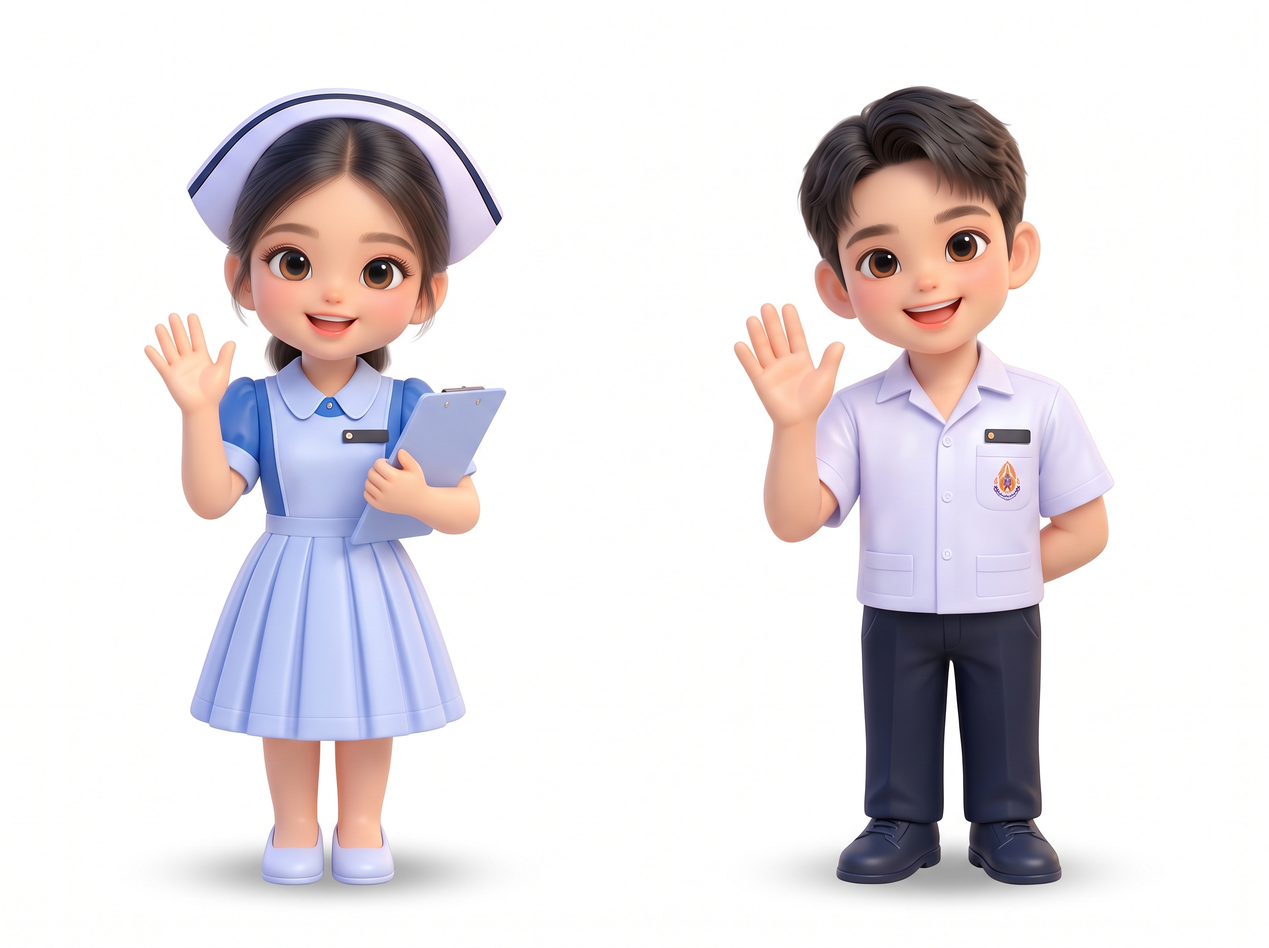
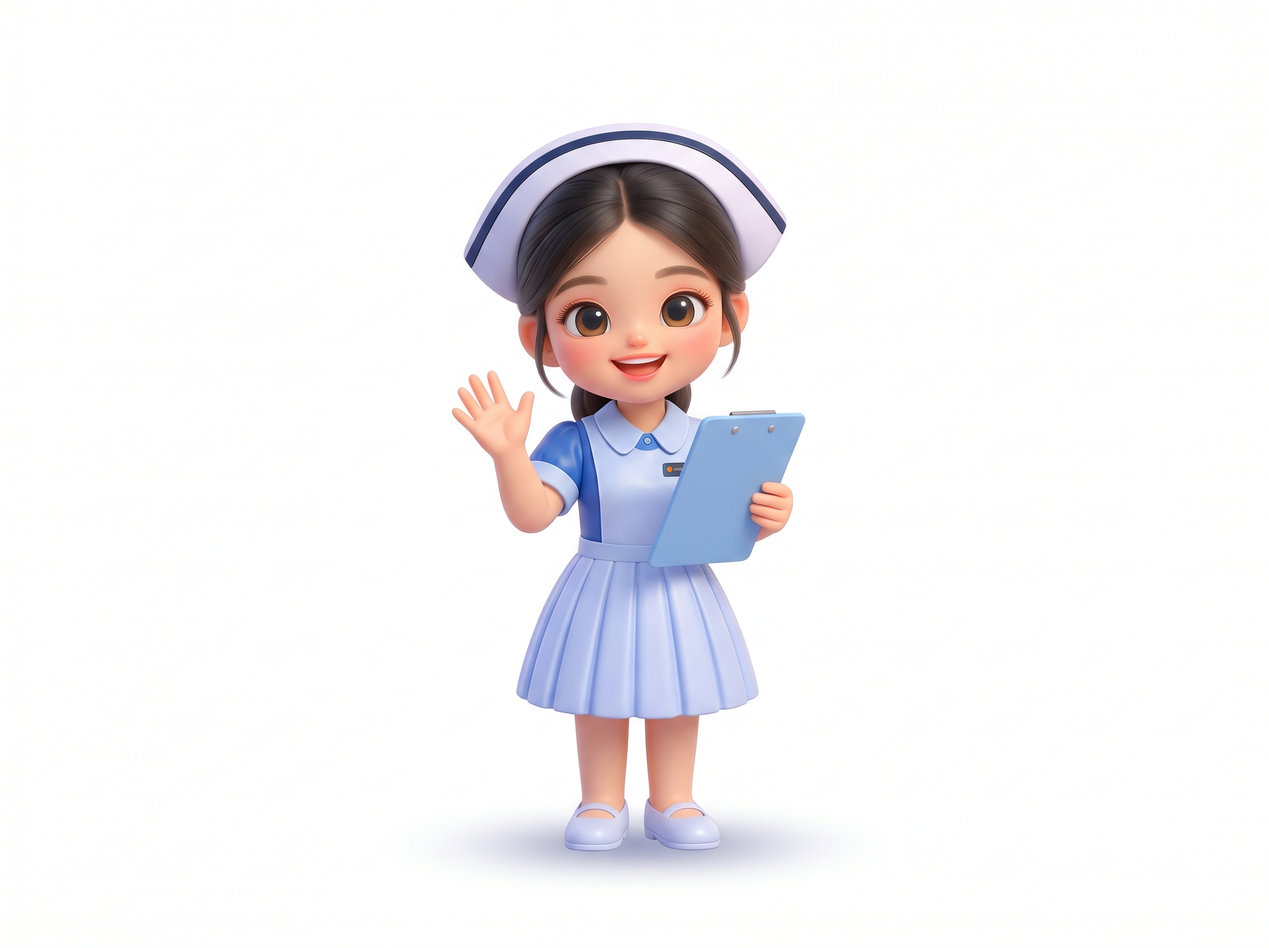
Add files via upload

diff --git a/practicum.html b/practicum.html
@@ -665,9 +665,42 @@
     function getStudentAvatarSrc(s) {
       const name = (s.fullName || s.name || "").trim();
       const isMale = name.startsWith("นาย") || s.gender === "male";
-      const defaultImg = isMale ? "avatars/nurse-male.png" : "avatars/nurse-female.png";
+      
+      // ลำดับไฟล์ผู้ชาย / ผู้หญิง ที่อาจมีในระบบ
+      const maleCandidates = [
+        "avatars/nurse_boy.png",
+        "avatars/nurse_boy.png.jpg",
+        "nurse_boy.png",
+        "nurse_boy.png.jpg",
+        "avatars/nurse-male.png",
+        "nurse-male.png"
+      ];
+      const femaleCandidates = [
+        "avatars/nurse_girl.png",
+        "avatars/nurse_girl.png.jpg",
+        "nurse_girl.png",
+        "nurse_girl.png.jpg",
+        "avatars/nurse-female.png",
+        "nurse-female.png"
+      ];
+
+      const candidates = isMale ? maleCandidates : femaleCandidates;
+      const defaultImg = candidates[0];
+      const fallbackList = candidates.slice(1);
       const customImg = `avatars/${s.studentId.toLowerCase()}.jpg`;
-      return { customImg, defaultImg, isMale };
+      return { customImg, defaultImg, fallbackList, isMale };
+    }
+
+    // ฟังก์ชันช่วยโหลดรูปภาพแบบลองค้นหาตามลำดับอัตโนมัติ (Fallback Chain)
+    function handleAvatarImgError(imgEl, fallbackList) {
+      if (!imgEl._fbIdx) imgEl._fbIdx = 0;
+      if (fallbackList && imgEl._fbIdx < fallbackList.length) {
+        const nextSrc = fallbackList[imgEl._fbIdx++];
+        imgEl.src = nextSrc;
+      } else {
+        imgEl.onerror = null;
+        imgEl.src = 'https://api.dicebear.com/7.x/bottts-neutral/svg?seed=' + encodeURIComponent(imgEl.alt || 'student');
+      }
     }
 
     // 2. เรนเดอร์การ์ดอวาตาร์ 3D Pixar พร้อมระบบหันหน้าตามเมาส์ (Mouse Face Tracking)
@@ -675,6 +708,7 @@
       const grid = document.getElementById('avatarGrid');
       grid.innerHTML = GROUP_5_DATA.map((s, idx) => {
         const av = getStudentAvatarSrc(s);
+        const fbJson = JSON.stringify(av.fallbackList).replace(/"/g, '&quot;');
         return `
           <div class="clay-card tilt-card p-4 flex flex-col items-center justify-between text-center relative group min-h-[220px]" 
                onmousemove="handleTilt(event, this, '${s.studentId}')" 
@@ -692,14 +726,14 @@
               </span>
             </div>
 
-            <!-- อวาตาร์ 3D ทรงกลมลอยตัว หันตามเมาส์ -->
-            <div class="tilt-card-inner w-20 h-20 sm:w-24 sm:h-24 rounded-full bg-gradient-to-tr ${s.color} p-1 shadow-lg flex items-center justify-center my-1 group-hover:scale-110 transition-transform duration-300">
-              <div class="w-full h-full bg-white rounded-full overflow-hidden flex items-center justify-center border-2 border-white shadow-inner pointer-events-none">
+            <!-- อวาตาร์ 3D ทรงกลมลอยตัว หันตามเมาส์ (Face/Eye Tracking) -->
+            <div class="tilt-card-inner w-22 h-22 sm:w-26 sm:h-26 rounded-full bg-gradient-to-tr ${s.color} p-1 shadow-lg flex items-center justify-center my-1 group-hover:scale-110 transition-transform duration-300">
+              <div class="w-full h-full bg-white rounded-full overflow-hidden flex items-center justify-center border-2 border-white shadow-inner pointer-events-none relative">
                 <img id="avatarImg_${s.studentId}"
-                     src="${av.customImg}" 
-                     onerror="this.onerror=null; this.src='${av.defaultImg}';" 
+                     src="${av.defaultImg}" 
+                     onerror="handleAvatarImgError(this, ${fbJson})" 
                      alt="${s.name}" 
-                     class="w-full h-full object-cover transition-transform duration-100 ease-out">
+                     class="w-full h-full object-contain pointer-events-none transition-transform duration-75 ease-out select-none">
               </div>
             </div>
 
@@ -735,30 +769,32 @@
       }, 350);
     }
 
-    // ฟังก์ชัน 3D Tilt เอียงการ์ดและให้หน้าตัวละครหันตามเมาส์ (Eye/Head Tracking)
+    // ฟังก์ชัน 3D Tilt เอียงการ์ดและให้หน้าตัวละครหันตามเมาส์ (Eye/Head Tracking เหมือน TikTok)
     function handleTilt(e, card, studentId) {
       const rect = card.getBoundingClientRect();
       const x = e.clientX - rect.left - rect.width / 2;
       const y = e.clientY - rect.top - rect.height / 2;
-      const rotateX = (-y / rect.height) * 20;
-      const rotateY = (x / rect.width) * 20;
-      card.style.transform = `perspective(800px) rotateX(${rotateX}deg) rotateY(${rotateY}deg) scale3d(1.04, 1.04, 1.04)`;
+      const rotateX = (-y / rect.height) * 22;
+      const rotateY = (x / rect.width) * 22;
+      const rotateZ = (x / rect.width) * 3;
+      card.style.transform = `perspective(800px) rotateX(${rotateX}deg) rotateY(${rotateY}deg) rotateZ(${rotateZ}deg) scale3d(1.05, 1.05, 1.05)`;
 
-      // หันหน้าตัวการ์ตูนตามเมาส์
+      // หันหน้าตัวการ์ตูนตามเมาส์ (Dynamic Head & Eye Tracking)
       const img = document.getElementById(`avatarImg_${studentId}`);
       if (img) {
-        const moveX = (x / rect.width) * 14;
-        const moveY = (y / rect.height) * 14;
-        img.style.transform = `scale(1.15) translate(${moveX}px, ${moveY}px)`;
+        const moveX = (x / rect.width) * 22;
+        const moveY = (y / rect.height) * 18;
+        const tiltDeg = (x / rect.width) * 12;
+        img.style.transform = `scale(1.22) translate(${moveX}px, ${moveY}px) rotate(${tiltDeg}deg)`;
       }
     }
 
     function resetTilt(card, studentId) {
       clearTimeout(hoverOpenTimer);
-      card.style.transform = `perspective(800px) rotateX(0deg) rotateY(0deg) scale3d(1, 1, 1)`;
+      card.style.transform = `perspective(800px) rotateX(0deg) rotateY(0deg) rotateZ(0deg) scale3d(1, 1, 1)`;
       const img = document.getElementById(`avatarImg_${studentId}`);
       if (img) {
-        img.style.transform = `scale(1) translate(0px, 0px)`;
+        img.style.transform = `scale(1) translate(0px, 0px) rotate(0deg)`;
       }
     }
 
@@ -768,10 +804,11 @@
       if (!s) return;
       selectedRadialStudent = s;
       const av = getStudentAvatarSrc(s);
+      const fbJson = JSON.stringify(av.fallbackList).replace(/"/g, '&quot;');
       document.getElementById('radialAvatarDisplay').innerHTML = `
-        <img src="${av.customImg}" 
-             onerror="this.onerror=null; this.src='${av.defaultImg}';" 
-             class="w-full h-full object-cover">
+        <img src="${av.defaultImg}" 
+             onerror="handleAvatarImgError(this, ${fbJson})" 
+             class="w-full h-full object-contain p-1">
       `;
       document.getElementById('radialStudentId').textContent = s.studentId;
       document.getElementById('radialStudentName').textContent = s.fullName;
